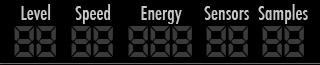
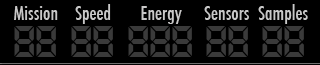
reworked a couple of levels. missions more more beautiful. a few other view tweaks.

Changed region(s): [[0.0312, 0.0615, 0.1875, 0.3077]]

diff --git a/Classes/Views/MissionsScene.m b/Classes/Views/MissionsScene.m
@@ -17,8 +17,9 @@
 #import "ProgramNgin.h"
 
 //-----------------------------------------------------------------------------------------------------------------------------------
-#define kMISSION_COLUMN_ADJUST  35.0
+#define kMISSION_COLUMN_ADJUST  45.0
 #define kMISSION_ROW_ADJUST     20.0
+#define kMISSION_YOFFSET        10.0
 
 /////////////////////////////////////////////////////////////////////////////////////////////////////////////////////////////////////
 @interface MissionsScene (PrivateAPI)
@@ -60,7 +61,8 @@
     NSInteger missionWidth = (self.screenSize.width - kMISSION_ROW_ADJUST) / kMISSIONS_PER_ROW;
     NSInteger missionHeight = (self.screenSize.height - displayOffset - kMISSION_COLUMN_ADJUST) / kMISSIONS_ROWS;
     NSInteger missionColumn = _position.x / missionWidth;
-    NSInteger missionRow = (self.screenSize.height - displayOffset - _position.y - 0.35*missionHeight) / missionHeight;
+    CGSize missionSize = [self missionSize];
+    NSInteger missionRow = (self.screenSize.height - displayOffset-_position.y - kMISSION_COLUMN_ADJUST - 0.5 * missionSize.height + kMISSION_YOFFSET) / missionHeight;
     return kMISSIONS_PER_ROW * missionRow + missionColumn;
 }
 
@@ -79,7 +81,7 @@
     NSInteger missionColumn = _mission - missionRow * kMISSIONS_PER_ROW;
     CGSize missionSize = [self missionSize];
     return CGPointMake(0.5 * missionSize.width + missionColumn * missionSize.width + kMISSION_ROW_ADJUST / 2.0,  
-                       self.screenSize.height - missionRow * missionSize.height - displayOffset - kMISSION_COLUMN_ADJUST - 0.5 * missionSize.height);
+                       self.screenSize.height - missionRow * missionSize.height - displayOffset - kMISSION_COLUMN_ADJUST - 0.5 * missionSize.height + kMISSION_YOFFSET);
 }
 
 //-----------------------------------------------------------------------------------------------------------------------------------
@@ -135,10 +137,11 @@
 
 //-----------------------------------------------------------------------------------------------------------------------------------
 - (void)addMissionLabel:(NSInteger)_mission toSprite:(CCSprite*)_sprite {
-    CCLabel* missionLable = [CCLabel labelWithString:[NSString stringWithFormat:@"%d", [self missionToLevel:_mission]] fontName:kGLOBAL_FONT fontSize:kGLOBAL_FONT_SIZE_LARGE];
+    CCLabel* missionLable = 
+        [CCLabel labelWithString:[NSString stringWithFormat:@"%d", [self missionToLevel:_mission]] fontName:kGLOBAL_FONT fontSize:kGLOBAL_FONT_SIZE_LARGE];
     CGSize missionSize = [self missionSize];
     missionLable.anchorPoint = CGPointMake(0.5, 0.5);
-    missionLable.position = CGPointMake(0.31*missionSize.width, 0.275*missionSize.height);
+    missionLable.position = CGPointMake(0.30*missionSize.width, 0.32*missionSize.height);
     missionLable.color = ccc3(0,0,0); 
     [_sprite addChild:missionLable];
 }
@@ -152,7 +155,7 @@
         CCLabel* missionScore = [CCLabel labelWithString:[NSString stringWithFormat:@"%d", [levelModel score]] fontName:kGLOBAL_FONT fontSize:kGLOBAL_FONT_SIZE_MISSION];
         CGSize missionSize = [self missionSize];
         missionScore.anchorPoint = CGPointMake(0.5, 0.5);
-        missionScore.position = CGPointMake(0.29*missionSize.width, -0.06*missionSize.height);
+        missionScore.position = CGPointMake(0.31*missionSize.width, -0.11*missionSize.height);
         missionScore.color = ccc3(103,243,27); 
         [_sprite addChild:missionScore];
     }
@@ -181,11 +184,11 @@
         self.isTouchEnabled = YES;
         self.navigationDisplay = [NavigationDisplay createWithTarget:self andSelector:@selector(backNavigation)];
         [self.navigationDisplay insert:self];
-		CGPoint screenCenter = CGPointMake(self.screenSize.width/2, self.screenSize.height/2);
-        CCLabel* levelLabel = [CCLabel labelWithString:@"Select Level" fontName:kGLOBAL_FONT fontSize:kGLOBAL_FONT_SIZE_LARGE];
-        levelLabel.color = ccc3(0,170,0);    
-        levelLabel.position = CGPointMake(screenCenter.x, 390.0f);
-        [self addChild:levelLabel];
+        CCSprite* backgroundGrid = [CCSprite spriteWithFile:@"missions-background.png"];
+        backgroundGrid.anchorPoint = CGPointMake(0.0, 0.0);
+        backgroundGrid.position = CGPointMake(0.0, 0.0);
+        backgroundGrid.scale = 0.5;
+        [self addChild:backgroundGrid];
         [self loadMissions];
     }
 	return self;

diff --git a/Classes/Views/DoTimesTerminalCell.m b/Classes/Views/DoTimesTerminalCell.m
@@ -20,6 +20,7 @@
 #define kDOTIMES_INSTRUCTION_MAX_WIDTH          187
 #define kDOTIMES_INSTRUCTION_EDIT_MAX_WIDTH     106
 #define kDOTIMES_NUMBER_MAX_WIDTH               107
+#define kDOTIMES_NUMBER_MIN_WIDTH               30
 #define kDOTIMES_NUMBER_EDIT_MAX_WIDTH          46
 
 /////////////////////////////////////////////////////////////////////////////////////////////////////////////////////////////////////
@@ -74,7 +75,8 @@
     NSString* numberString = [NSString stringWithFormat:@"%d", [[self.instructionSet objectAtIndex:2] intValue]];
     CGSize numberSize = [self itemSize:numberString];
     CGRect numberRect = self.numberLabel.frame; 
-    numberRect.size.width = MIN(numberSize.width, _maxNumberWidth);    
+    numberRect.size.width = MAX(numberSize.width, kDOTIMES_NUMBER_MIN_WIDTH);    
+    numberRect.size.width = MIN(numberRect.size.width, _maxNumberWidth);    
 
     // get bracket and times rect
     CGRect timesClosingBracketRect = self.timesClosingBracketLabel.frame;
